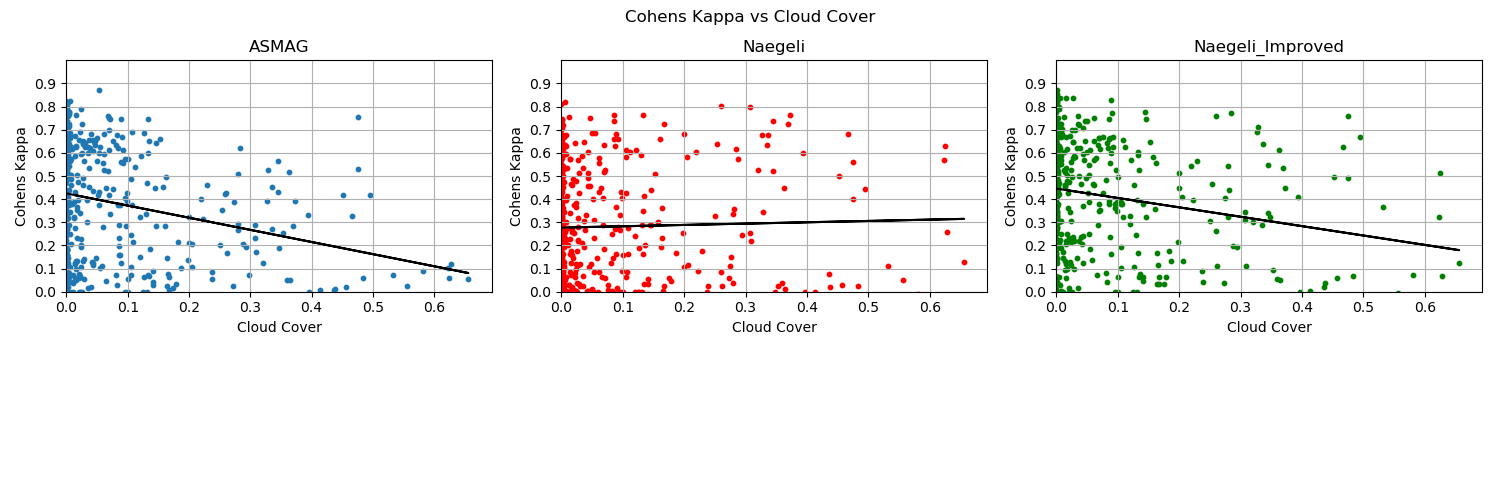
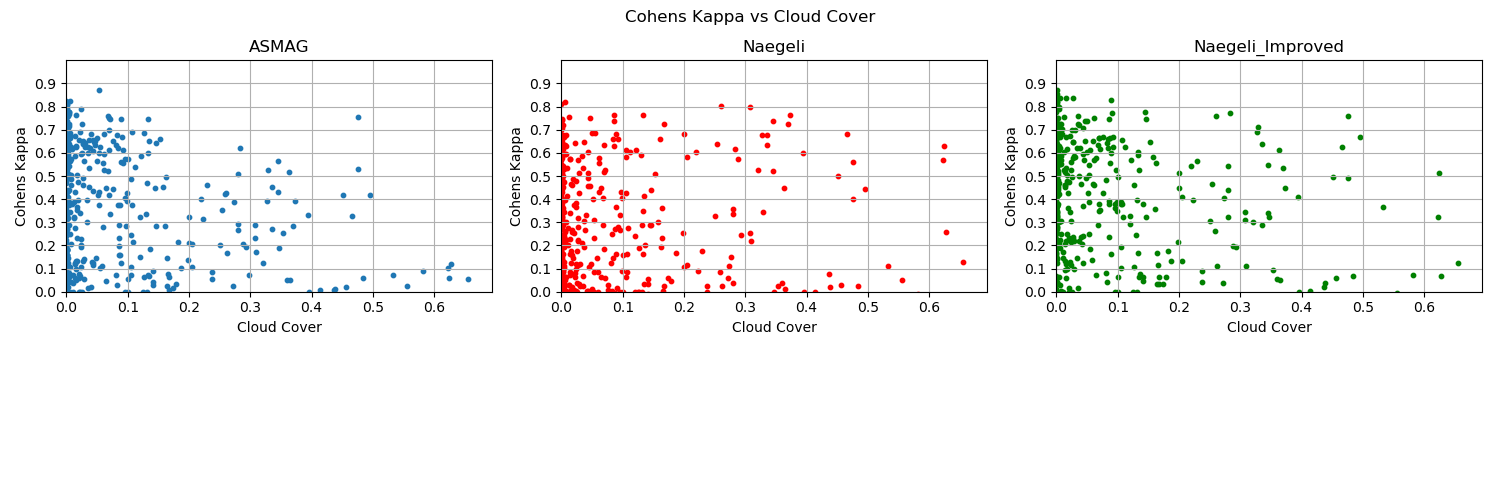
Make more plots/proceed with validation/analysis

diff --git a/create_statistics.py b/create_statistics.py
@@ -19,7 +19,8 @@ import numpy as np
 import snowicesen.utils as utils
 from snowicesen.utils import download_all_tiles
 from oggm.workflow import execute_entity_task
-from datetime import timedelta
+from datetime import timedelta, date
+from datetime import datetime
 from snowicesen.utils import datetime_to_int, int_to_datetime, extract_metadata
 import matplotlib.pyplot as plt
 import matplotlib
@@ -28,6 +29,8 @@ import pandas as pd
 import numpy.ma as ma
 import richdem as rd
 import itertools
+import pickle
+from scipy import stats
 
 logging.basicConfig(format='%(asctime)s: %(name)s: %(message)s',
                     datefmt='%Y-%m-%d %H:%M:%S', level=logging.DEBUG)
@@ -105,8 +108,11 @@ if __name__ == '__main__':
     SLA_nai_arr = []
 
     area_arr =[]
+    extent_arr =[]
+    aspect_arr = []
+    doy_arr = []
     vert_ext_arr =[]
-
+    scenes_arr =[]
     entries = 0
 
     for glacier in gdirs:
@@ -123,7 +129,7 @@ if __name__ == '__main__':
             # Skip this glacier if no validation data set is available
             print('No data for comparison')
             continue
-       # print(snow_man)
+        
         # sum up all kappas
         kappa_asmag_sum = kappa_asmag_sum+ snow_man.kappa_asmag.sum(dim='time').values
         kappa_naegeli_sum = kappa_naegeli_sum+ snow_man.kappa_naegeli_orig.sum(dim='time').values
@@ -148,6 +154,11 @@ if __name__ == '__main__':
             except KeyError:
                 continue
 
+        # write Day of Year (doy) into array:
+            end_date = date(int(str(day)[0:4]), int(str(day)[4:6]),
+                    int(str(day)[6:8]))
+            doy = end_date.timetuple().tm_yday
+            doy_arr.append(doy)
         # Write all kappas into an array:
             kappa_as_arr.append(snow_man.sel(time=day).kappa_asmag.values)
             kappa_na_arr.append(snow_man.sel(time=day).kappa_naegeli_orig.values)
@@ -184,16 +195,26 @@ if __name__ == '__main__':
 
             # Get average slope
             dem_ts = dem.isel(time=0,band=0).height_in_m.values
+            # Get altitude extent:
+            print(dem_ts[dem_ts < 5000].max(), dem_ts[dem_ts>0].min())
+            extent = dem_ts[dem_ts < 5000].max()-dem_ts[dem_ts > 0].min()
+            print(extent)
             z_bc = utils.assign_bc(dem_ts)
             dx = 10
             # Compute finite differences
             slope_x = (z_bc[1:-1, 2:]-z_bc[1:-1,:-2])/(2*dx)
             slope_y = (z_bc[2:, 1:-1]-z_bc[:-2,1:-1])/(2*dx)
             slope = np.arctan(np.sqrt(slope_x**2+slope_y**2))
+            aspect = np.arctan2(slope_y, slope_x)
+
             # Average slope in degrees
             slope = np.degrees(np.mean(slope[slope>0]))
+            # Average Aspect in degreed:
+            aspect = np.degrees(np.mean(aspect[aspect>0]))
             #rint(slope)
             slope_arr.append(slope)
+            extent_arr.append(extent)
+            aspect_arr.append(aspect)
         
 
 
@@ -214,6 +235,8 @@ if __name__ == '__main__':
         C_naegeli_improv[3]=C_naegeli_improv[3]+ snow_man.naegeli_improv_d.sum(dim='time').values
 
     #####   PLOTS: #####
+
+
     # Snow Cover vs. Kappa:
     #print("manual :",SLA_man_arr)
     #print("ASMAG  :", SLA_as_arr)
@@ -341,13 +364,13 @@ if __name__ == '__main__':
 
 
     # Cloud Cover vs. Kappa
-    print(len(cloud_cover_arr), len(kappa_as_arr))
-    z_as = np.polyfit(cloud_cover_arr, kappa_as_arr_cloud,1)
-    p_as = np.poly1d(z_as)
-    z_na = np.polyfit(cloud_cover_arr, kappa_na_arr_cloud,1)
-    p_na = np.poly1d(z_na)
-    z_nai = np.polyfit(cloud_cover_arr, kappa_nai_arr_cloud,1)
-    p_nai = np.poly1d(z_nai)
+ #   print(len(cloud_cover_arr), len(kappa_as_arr))
+ #   z_as = np.polyfit(cloud_cover_arr, kappa_as_arr_cloud,1)
+ #   p_as = np.poly1d(z_as)
+ #   z_na = np.polyfit(cloud_cover_arr, kappa_na_arr_cloud,1)
+ #   p_na = np.poly1d(z_na)
+ #   z_nai = np.polyfit(cloud_cover_arr, kappa_nai_arr_cloud,1)
+ #   p_nai = np.poly1d(z_nai)
 
 
     plt.figure(3, figsize=(15,5))
@@ -355,7 +378,7 @@ if __name__ == '__main__':
     plt.title('Cohens Kappa vs Cloud Cover')
     plt.subplot(1,3,1)
     plt.scatter(cloud_cover_arr, kappa_as_arr_cloud, s=10)
-    plt.plot(cloud_cover_arr, p_as(cloud_cover_arr), 'black')
+#    plt.plot(cloud_cover_arr, p_as(cloud_cover_arr), 'black')
     plt.ylim(0,1)
     plt.xlim(left=0)
     plt.xlabel('Cloud Cover')
@@ -364,7 +387,7 @@ if __name__ == '__main__':
     plt.title('ASMAG')
     plt.grid()
     plt.subplot(1,3,2)
-    plt.plot(cloud_cover_arr, p_na(cloud_cover_arr), 'black')
+#    plt.plot(cloud_cover_arr, p_na(cloud_cover_arr), 'black')
     plt.scatter(cloud_cover_arr, kappa_na_arr_cloud, s=10, color= 'red')
     plt.xlim(left =0)
     plt.ylim(0,1)
@@ -374,7 +397,7 @@ if __name__ == '__main__':
     plt.grid()
     plt.title('Naegeli')
     plt.subplot(1,3,3)
-    plt.plot(cloud_cover_arr, p_nai(cloud_cover_arr), 'black')
+#    plt.plot(cloud_cover_arr, p_nai(cloud_cover_arr), 'black')
     plt.scatter(cloud_cover_arr, kappa_nai_arr_cloud, s=10,color= 'green')
     plt.xlim(left =0)
     plt.ylim(0,1)
@@ -413,6 +436,17 @@ if __name__ == '__main__':
 
     
     # SLA vs. SLA_man
+    z_as, intercept =  np.polyfit(SLA_man_arr, SLA_as_arr,1)
+    _,_,r_val_as,_,_ = stats.linregress(SLA_man_arr, SLA_as_arr)
+    p_as = np.poly1d(z_as)
+    z_na, intercept = np.polyfit(SLA_man_arr, SLA_na_arr,1)
+    _,_,r_val_na,_,_ = stats.linregress(SLA_man_arr, SLA_na_arr)
+    p_na = np.poly1d(z_na)
+    z_nai, intercept = np.polyfit(SLA_man_arr, SLA_nai_arr,1)
+    _,_,r_val_nai,_,_ = stats.linregress(SLA_man_arr, SLA_nai_arr)
+    p_nai = np.poly1d(z_nai)
+
+
     plt.figure(5, figsize=(15,5))
     plt.suptitle('Snow Line Altitude Observed vs. Modeled')
     plt.subplot(1,3,1)
@@ -427,12 +461,15 @@ if __name__ == '__main__':
     cbar.set_label('Kappa')
 
 
-    plt.plot([0,4000],[0,4000])    
+    plt.plot([0,4000],[0,4000]) 
+    print(p_as(SLA_man_arr))
+    plt.plot( SLA_man_arr, p_as(SLA_man_arr), 'black', label ='R2 = %.3f'.format(r_val_as**2))
     plt.ylim((2000,3600))
     plt.xlim((2000,3600))
     plt.xlabel('SLA Manual')
     plt.ylabel('SLA Calculated')
     plt.title('ASMAG')
+
     plt.subplot(1,3,2)
     cmap = matplotlib.cm.get_cmap('YlOrRd')
     normalize = matplotlib.colors.Normalize(vmin=min(kappa_na_arr),
@@ -444,12 +481,16 @@ if __name__ == '__main__':
     cbar = plt.colorbar(sm)
     cbar.set_label('Kappa')
     
-    plt.plot([0,4000],[0,4000], color = 'red')    
+    plt.plot([0,4000],[0,4000], color = 'red')  
+    plt.plot([0,4000], p_na([0,4000]), 'black')
+    plt.legend("R2 = %.3f"%r_val_na**2)
+
     plt.ylim((2000,3600))
     plt.xlim((2000,3600))
     plt.xlabel('SLA Manual')
     plt.ylabel('SLA Calculated')
     plt.title('Naegeli')
+
     plt.subplot(1,3,3)
     cmap = matplotlib.cm.get_cmap('YlGn')
     normalize = matplotlib.colors.Normalize(vmin=min(kappa_nai_arr),
@@ -461,7 +502,11 @@ if __name__ == '__main__':
     cbar = plt.colorbar(sm)
     cbar.set_label('Kappa')
     
-    plt.plot([0,4000],[0,4000], color = 'green')    
+    plt.plot([0,4000],[0,4000], color = 'green')  
+    plt.plot([0,4000], p_nai([0, 4000]), 'black')
+    plt.legend("R2 = %.3f"%r_val_nai**2)
+    
+    
     plt.ylim((2000,3600))
     plt.xlim((2000,3600)) 
     plt.xlabel('SLA Manual')
@@ -537,5 +582,53 @@ if __name__ == '__main__':
         'Cloud Cover', 'Snow Cover', 'Cohens Kappa', 7)
 
     #two_d_scatter
+    cloud_cover = np.asarray(cloud_cover_arr)
+    snow_cover = np.asarray(snow_cover_arr)
+    kappa_as = np.asarray(kappa_as_arr)
+    kappa_na = np.asarray(kappa_na_arr)
+    kappa_nai = np.asarray(kappa_nai_arr)
+    slope = np.asarray(slope_arr)
+    aspect = np.asarray(aspect_arr)
+    extent = np.asarray(extent_arr)
+    area = np.asarray(area_arr)
+    doy = np.asarray(doy_arr)
+    SLA_man = np.asarray(SLA_man_arr)
+    SLA_as = np.asarray(SLA_as_arr)
+    SLA_na = np.asarray(SLA_na_arr)
+    SLA_nai = np.asarray(SLA_nai_arr)
+
+
+    x = cloud_cover+0.1
+    y = snow_cover
+    z = kappa_as
+    print(snow_cover)
+    print(cloud_cover)
+    pickle.dump([
+        cloud_cover, 
+        snow_cover,
+        slope,
+        aspect,
+        area, 
+        extent,
+        doy,
+        kappa_as,
+        kappa_na,
+        kappa_nai,
+        SLA_man,
+        SLA_as,
+        SLA_na,
+        SLA_nai
+        ],open('variables.p', 'wb'))
+
+    
+    
+                     
+
+    #f, ax  = plt.subplots(1,2,sharex=True, sharey=True)
+    #ax[0].tripcolor(triang, z)
+    #ax[1].tripcolor(x,y,Z,20)
+    #ax[1].plot(x,y,'ko')
+    #ax[0].plot(x,y,'ko')
+
 
     plt.show()

diff --git a/snowicesen/utils.py b/snowicesen/utils.py
@@ -713,20 +713,23 @@ def two_d_scatter(x_as, x_na, x_nai,y_as, y_na, y_nai,z_as, z_na, z_nai, x_name,
     figure_id: int: id of figure to be plotted
     """
     plt.figure(figure_id,figsize=(15,5))
+    plt.rcParams.update({"font.size": 12})
     plt.suptitle(str(z_name+ 'in dependence on '+ x_name+ ' and '+ y_name))
     plt.subplot(1,3,1)
+
    
     cmap = matplotlib.cm.get_cmap('YlGnBu')
     normalize = matplotlib.colors.Normalize(vmin=min(z_as),
             vmax = max(z_as))
     colors = [cmap(normalize(value)) for value in z_as]
-    plt.scatter(x_as, y_as, s=10,color=colors,linewidth=0.5, edgecolor='blue')
+    plt.scatter(x_as, y_as, s=20,color=colors,linewidth=0.5, edgecolor='blue')
     sm = matplotlib.cm.ScalarMappable(norm=normalize, cmap=cmap)
     sm.set_array([])
     cbar = plt.colorbar(sm)
     cbar.set_label(z_name)
+    #plt.xlim([0.01, 1.1])
     plt.xlim(0,1)
-   
+   # plt.xscale('log')
     plt.ylim(0,1)
     plt.xlabel(x_name)
     plt.ylabel(y_name)
@@ -738,12 +741,13 @@ def two_d_scatter(x_as, x_na, x_nai,y_as, y_na, y_nai,z_as, z_na, z_nai, x_name,
     normalize = matplotlib.colors.Normalize(vmin=min(z_na),
             vmax = max(z_na))
     colors = [cmap(normalize(value)) for value in z_na]
-    plt.scatter(x_na, y_na, s=10,color=colors,linewidth=0.5, edgecolor='red')
+    plt.scatter(x_na, y_na, s=20,color=colors,linewidth=0.5, edgecolor='red')
     sm = matplotlib.cm.ScalarMappable(norm=normalize, cmap=cmap)
     sm.set_array([])
     cbar = plt.colorbar(sm)
     cbar.set_label(z_name)
     plt.xlim(0,1)
+    #plt.xscale('log')
     
     plt.ylim(0,1)
     plt.xlabel(x_name)
@@ -757,6 +761,18 @@ def two_d_scatter(x_as, x_na, x_nai,y_as, y_na, y_nai,z_as, z_na, z_nai, x_name,
     normalize = matplotlib.colors.Normalize(vmin=min(z_nai),
              vmax = max(z_nai))
     colors = [cmap(normalize(value)) for value in z_nai]
-    plt.scatter(x_na, y_na, s=10,color=colors,linewidth=0.5, edgecolor='green')
+    plt.scatter(x_na, y_na, s=20,color=colors,linewidth=0.5, edgecolor='green')
     sm = matplotlib.cm.ScalarMappable(norm=normalize, cmap=cmap)
+    sm.set_array([])
+    cbar = plt.colorbar(sm)
+    cbar.set_label(z_name)
+    plt.xlim(0,1)
+   # plt.xscale('log')
+    
+    plt.ylim(0,1)
+    plt.xlabel(x_name)
+    plt.ylabel(y_name)
+    plt.grid()
+    plt.title('Naegeli Improved')
+    plt.tight_layout()
    

diff --git a/setup_gdirs.py b/setup_gdirs.py
@@ -95,17 +95,18 @@ if __name__ == '__main__':
                                                 end_date_var)
         print("Date = ", cfg.PARAMS['date'][0])
        # Download data for given glaciers for this date
-        tiles_downloaded = download_all_tiles(rgidf, tiles, use_tiles = True,
-                                              clear_cache = False,
-                                              clear_safe= False) 
-                                            # Function in utils
-        # move one day ahead
+#        tiles_downloaded = download_all_tiles(rgidf, tiles, use_tiles = True,
+#                                              clear_cache = False,
+#                                              clear_safe= False) 
+#                                            # Function in utils
+#        # move one day ahead
         start_date_var = start_date_var+timedelta(days=1)
         end_date_var = start_date_var+timedelta(days=1)
+        tiles_downloaded = 1
         if tiles_downloaded > 0:
             # Processing tasks: only execute when new files 
             # were downloaded!
-            task_list = [tasks.crop_satdata_to_glacier, # output:
+            task_list = [#tasks.crop_satdata_to_glacier, # output:
                                                         # sentinel.nc,
                                                         #solar_angles.nc
                                                         # dem_ts.nc
